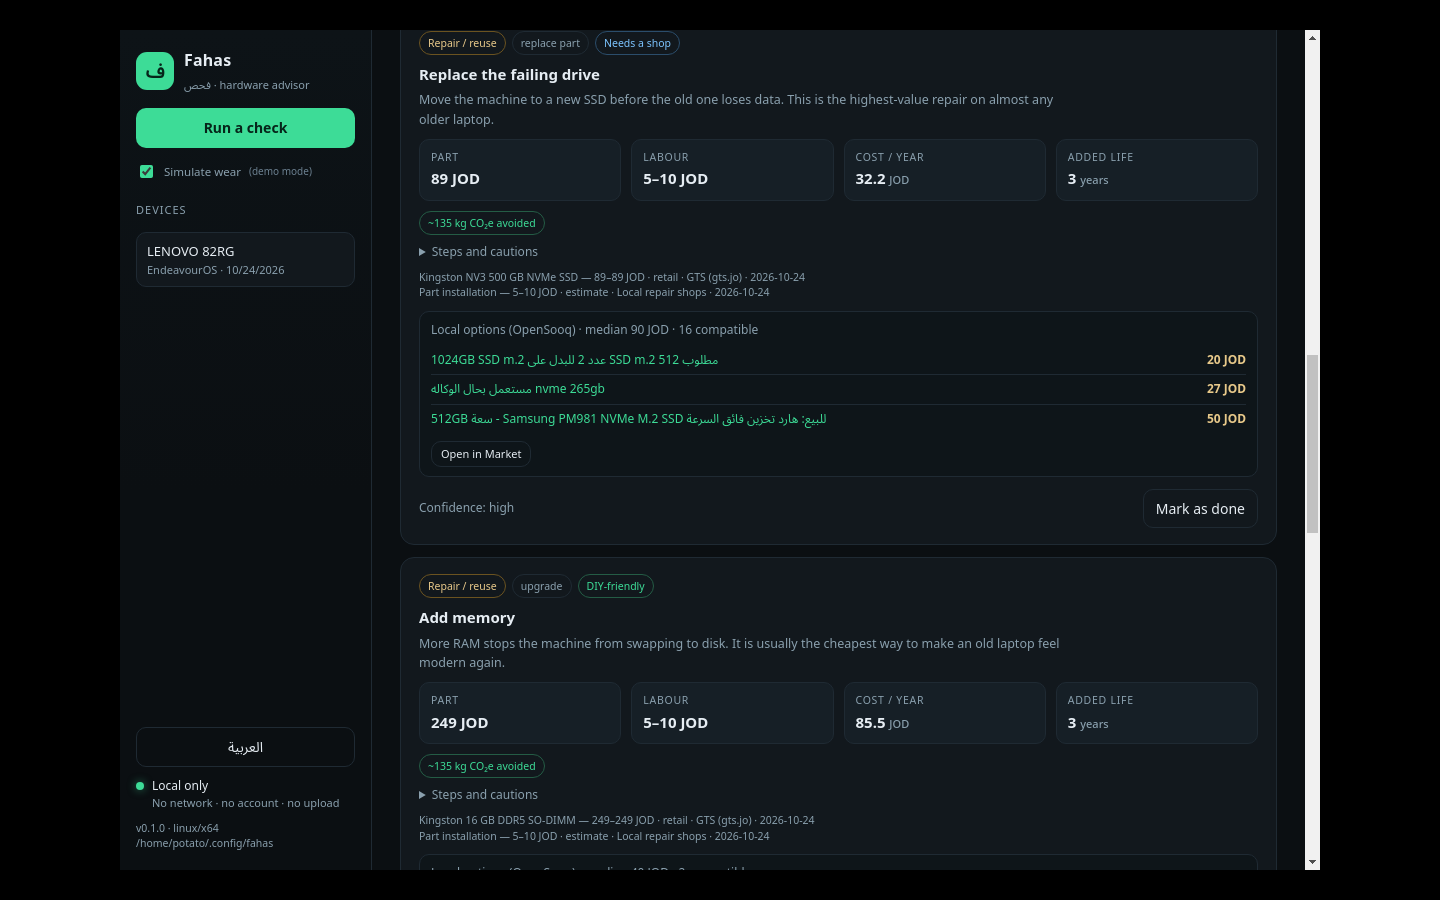
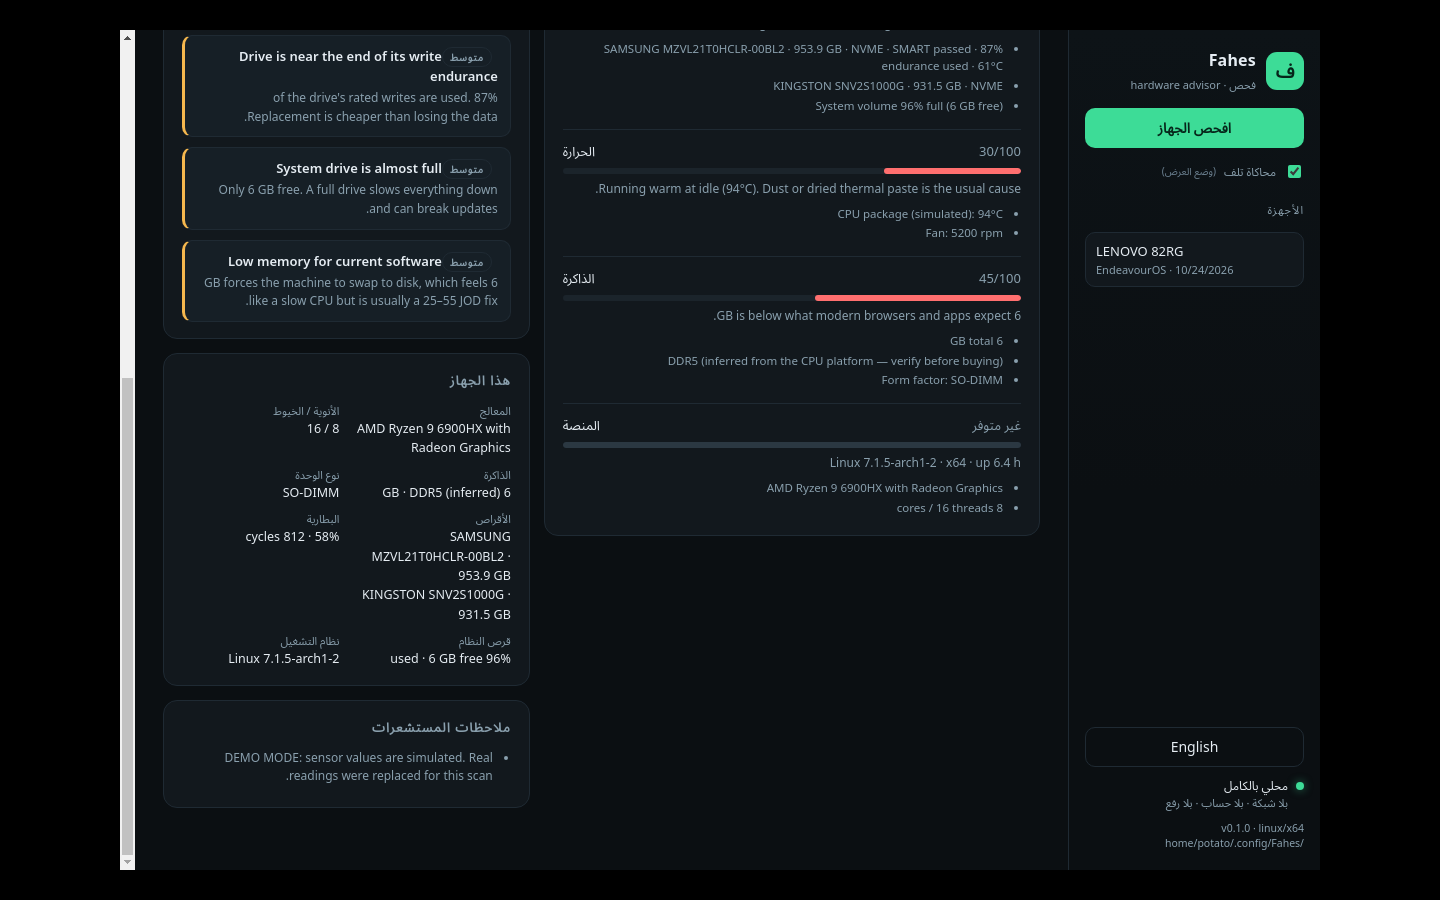
Rename Fahas to Fahes (فحص)
- App name, productName, appId, window title, UI brand and copy
- Storage: fahes-data.json, userData dir Fahes; language key fahes-lang
  (falls back to the old fahas-lang value)
- FAHES_DEMO env var; FAHAS_DEMO still honoured
- README, tests and docs screenshots regenerated with the new name
- Also fixes builder copyright (MIT) and adds productName for dev userData
- Fixes market tab stuck on 'Loading…' when the scan preloads the index

diff --git a/ui/app.js b/ui/app.js
@@ -1,5 +1,5 @@
-/* Fahas renderer — no frameworks, no network calls, no node access. */
-const api = window.fahas;
+/* Fahes renderer — no frameworks, no network calls, no node access. */
+const api = window.fahes;
 
 const state = {
   view: null,
@@ -62,7 +62,7 @@ function range(low, high, unit) {
 document.addEventListener("DOMContentLoaded", () => {
   if (!api) {
     document.body.innerHTML =
-      '<div style="padding:40px;font-family:system-ui"><h2>Fahas must run as the desktop app.</h2><p>Launch it with <code>npm run dev</code> or the packaged AppImage / installer.</p></div>';
+      '<div style="padding:40px;font-family:system-ui"><h2>Fahes must run as the desktop app.</h2><p>Launch it with <code>npm run dev</code> or the packaged AppImage / installer.</p></div>';
     return;
   }
   bind();
@@ -91,7 +91,7 @@ async function boot() {
     await refreshDevices();
     if (!state.view) showEmpty(true);
 
-    // Rehearsal shortcut: `FAHAS_DEMO=1 npm run dev` opens straight into a demo scan.
+    // Rehearsal shortcut: `FAHES_DEMO=1 npm run dev` opens straight into a demo scan.
     if (new URLSearchParams(location.search).get("demo") === "1") {
       const toggle = $("#demoToggle");
       if (toggle) toggle.checked = true;
@@ -201,7 +201,7 @@ function bind() {
       const blob = new Blob([JSON.stringify(state.passport.passport, null, 2)], { type: "application/json" });
       const a = document.createElement("a");
       a.href = URL.createObjectURL(blob);
-      a.download = `fahas-passport-${(state.view?.device.name || "device").replace(/[^a-z0-9]+/gi, "-").toLowerCase()}.json`;
+      a.download = `fahes-passport-${(state.view?.device.name || "device").replace(/[^a-z0-9]+/gi, "-").toLowerCase()}.json`;
       a.click();
       setTimeout(() => URL.revokeObjectURL(a.href), 1500);
     }
@@ -800,7 +800,10 @@ function normText(input) {
 
 async function loadMarket(force = false) {
   const deviceId = state.view?.device.id;
-  if (!force && state.market && state.marketFor === (deviceId ?? null)) return;
+  if (!force && state.market && state.marketFor === (deviceId ?? null)) {
+    renderMarket();
+    return;
+  }
   try {
     state.market = await call(api.market(deviceId));
     state.marketFor = deviceId ?? null;

diff --git a/ui/i18n.js b/ui/i18n.js
@@ -16,7 +16,7 @@
       "scan.demoNote": "(demo mode)",
       "scan.emptyTitle": "Start with this machine",
       "scan.emptyBody":
-        "Fahas reads battery wear, drive health, memory headroom and thermals — on your device, with no network access. Missing sensors are reported as “unknown”, never invented.",
+        "Fahes reads battery wear, drive health, memory headroom and thermals — on your device, with no network access. Missing sensors are reported as “unknown”, never invented.",
 
       "side.devices": "Devices",
       "side.none": "No devices checked yet.",
@@ -165,7 +165,7 @@
       "passport.noWipe": "no wipe record",
       "passport.destroy": "Data destruction",
       "passport.destroyIntro":
-        "Before a device is resold or recycled, the drive matters more than the hardware. Record the method you used. Fahas stores an attestation locally — it is a record, not a cryptographic proof.",
+        "Before a device is resold or recycled, the drive matters more than the hardware. Record the method you used. Fahes stores an attestation locally — it is a record, not a cryptographic proof.",
       "passport.method": "Method",
       "passport.drive": "Drive",
       "passport.record": "Record wipe attestation",
@@ -514,8 +514,8 @@
     },
   };
 
-  const STORAGE_KEY = "fahas-lang";
-  let lang = localStorage.getItem(STORAGE_KEY) === "ar" ? "ar" : "en";
+  const STORAGE_KEY = "fahes-lang";
+  let lang = (localStorage.getItem(STORAGE_KEY) ?? localStorage.getItem("fahas-lang")) === "ar" ? "ar" : "en";
 
   function t(key, vars) {
     const table = DICT[lang] || DICT.en;

diff --git a/ui/index.html b/ui/index.html
@@ -7,7 +7,7 @@
       content="default-src 'self'; script-src 'self'; style-src 'self' 'unsafe-inline'; img-src 'self' data:; connect-src 'none'; font-src 'self'"
     />
     <meta name="viewport" content="width=device-width, initial-scale=1" />
-    <title>Fahas — hardware advisor</title>
+    <title>Fahes — hardware advisor</title>
     <link rel="stylesheet" href="style.css" />
   </head>
   <body>
@@ -16,7 +16,7 @@
         <div class="brand">
           <div class="mark">ف</div>
           <div>
-            <strong>Fahas</strong>
+            <strong>Fahes</strong>
             <small>فحص · hardware advisor</small>
           </div>
         </div>
@@ -76,7 +76,7 @@
             <div class="empty-mark">ف</div>
             <h2 data-i18n="scan.emptyTitle">Start with this machine</h2>
             <p data-i18n="scan.emptyBody">
-              Fahas reads battery wear, drive health, memory headroom and thermals — on your device, with no network
+              Fahes reads battery wear, drive health, memory headroom and thermals — on your device, with no network
               access. Missing sensors are reported as “unknown”, never invented.
             </p>
             <button id="emptyScan" class="primary" data-i18n="scan.run">Run a check</button>

diff --git a/electron/main.ts b/electron/main.ts
@@ -14,7 +14,7 @@ function createWindow() {
     minWidth: 940,
     minHeight: 620,
     backgroundColor: "#0b0f12",
-    title: "Fahas — hardware advisor",
+    title: "Fahes — hardware advisor",
     show: false,
     webPreferences: {
       preload: path.join(__dirname, "preload.js"),
@@ -27,7 +27,7 @@ function createWindow() {
 
   win.once("ready-to-show", () => win?.show());
   const demoQuery: Record<string, string> | undefined =
-    process.env.FAHAS_DEMO === "1" ? { demo: "1" } : undefined;
+    process.env.FAHES_DEMO === "1" || process.env.FAHAS_DEMO === "1" ? { demo: "1" } : undefined;
   win.loadFile(path.join(__dirname, "../../ui/index.html"), demoQuery ? { query: demoQuery } : {});
 
   win.webContents.setWindowOpenHandler(({ url }) => {

diff --git a/lib/market/images.ts b/lib/market/images.ts
@@ -48,7 +48,7 @@ export async function fetchListingImage(url: string, cacheDir: string): Promise<
   }
 
   const res = await fetch(url, {
-    headers: { "user-agent": "Fahas/0.1 (local hardware advisor; viewing a public listing photo)" },
+    headers: { "user-agent": "Fahes/0.1 (local hardware advisor; viewing a public listing photo)" },
     signal: AbortSignal.timeout(20_000),
     redirect: "follow",
   });

diff --git a/lib/market/fetch.ts b/lib/market/fetch.ts
@@ -21,7 +21,7 @@ export const MARKET_SOURCES = [
   { page: "Search: thermal paste", url: "https://jo.opensooq.com/en/find?PostSearch%5Bterm%5D=thermal%20paste" },
 ];
 
-const USER_AGENT = "Fahas/0.1 (local hardware price check; contact: local app user)";
+const USER_AGENT = "Fahes/0.1 (local hardware price check; contact: local app user)";
 
 const ENTITIES: Record<string, string> = {
   amp: "&",

diff --git a/lib/store.ts b/lib/store.ts
@@ -68,7 +68,7 @@ export class Store {
 
   constructor(private dir: string) {
     fs.mkdirSync(dir, { recursive: true });
-    this.file = path.join(dir, "fahas-data.json");
+    this.file = path.join(dir, "fahes-data.json");
     this.marketFile = path.join(dir, "market.json");
     this.data = this.load();
     this.syncSeedData();

diff --git a/test/market.ts b/test/market.ts
@@ -2,7 +2,7 @@ import os from "node:os";
 import path from "node:path";
 import { Store } from "../lib/store";
 
-const store = new Store(path.join(os.tmpdir(), "fahas-market-test"));
+const store = new Store(path.join(os.tmpdir(), "fahes-market-test"));
 const market = store.market();
 
 console.log("=== ALL BUCKETS ===");

diff --git a/electron/preload.ts b/electron/preload.ts
@@ -22,6 +22,6 @@ const api = {
   verifyPassport: (passport: unknown) => invoke("passport:verify", { passport }),
 };
 
-contextBridge.exposeInMainWorld("fahas", api);
+contextBridge.exposeInMainWorld("fahes", api);
 
-export type FahasApi = typeof api;
+export type FahesApi = typeof api;

diff --git a/test/scan.ts b/test/scan.ts
@@ -47,7 +47,7 @@ async function main() {
   }
 
   console.log("\n=== STORE ===");
-  const dir = path.join(os.tmpdir(), "fahas-test-store");
+  const dir = path.join(os.tmpdir(), "fahes-test-store");
   const store = new Store(dir);
   const scan = await store.scan({ demo: true });
 

diff --git a/README.md b/README.md
@@ -1,4 +1,4 @@
-# Fahas · فحص
+# Fahes · فحص
 
 **A local-first hardware advisor for laptops and desktops.** It reads what your machine can report, then advises
 **repair, upgrade, recycle or replace** — priced in Jordanian dinars, measured in years of added life, kilograms
@@ -30,7 +30,7 @@ powershell -ExecutionPolicy Bypass -File .\run.ps1   # Windows
 ## Why
 
 Most diagnostic tools tell you a disk is failing. They do not tell you whether it is worth fixing, what the part
-costs in Amman, or what happens to the old one. Fahas is built around the decision, not the reading:
+costs in Amman, or what happens to the old one. Fahes is built around the decision, not the reading:
 
 - **Repair before replace** — ranked by the waste hierarchy (prevent → reuse → repair → recycle → replace), then by
   cost per year of added life.
@@ -73,7 +73,7 @@ costs in Amman, or what happens to the old one. Fahas is built around the decisi
   - Ubuntu / Mint / Debian: `sudo apt install smartmontools lm-sensors`
 - **Windows:** nothing extra. Run as administrator for drive reliability counters and thermal zones.
 
-`smartctl` and DMI reads may require elevated access. Fahas does **not** ask for sudo and never runs elevated; it
+`smartctl` and DMI reads may require elevated access. Fahes does **not** ask for sudo and never runs elevated; it
 degrades and prints the exact command you can run yourself.
 
 If Electron's binary did not download during `npm install` (npm 12 blocks install scripts by default), run:
@@ -101,8 +101,8 @@ npm run test:scan    # real hardware scan + demo scan + store/passport round-tri
 ## Package
 
 ```bash
-npm run pack:linux   # release/Fahas-0.1.0-x86_64.AppImage
-npm run pack:win     # release/Fahas-Setup-0.1.0-x64.exe  (run this ON Windows)
+npm run pack:linux   # release/Fahes-0.1.0-x86_64.AppImage
+npm run pack:win     # release/Fahes-Setup-0.1.0-x64.exe  (run this ON Windows)
 ```
 
 Cross-building the Windows installer from Linux is not supported here — build it on the Windows laptop.
@@ -136,7 +136,7 @@ Key design rules:
 
 ## Data and privacy
 
-- Stored at `app.getPath("userData")/fahas-data.json` — `~/.config/Fahas` on Linux, `%APPDATA%\Fahas` on Windows.
+- Stored at `app.getPath("userData")/fahes-data.json` — `~/.config/Fahes` on Linux, `%APPDATA%\Fahes` on Windows.
 - File mode `0600` where the OS supports it. Delete the file to delete everything.
 - Serials are hashed; only the hash is kept.
 - The renderer has no network access (`connect-src 'none'` in the CSP) and no Node access.
